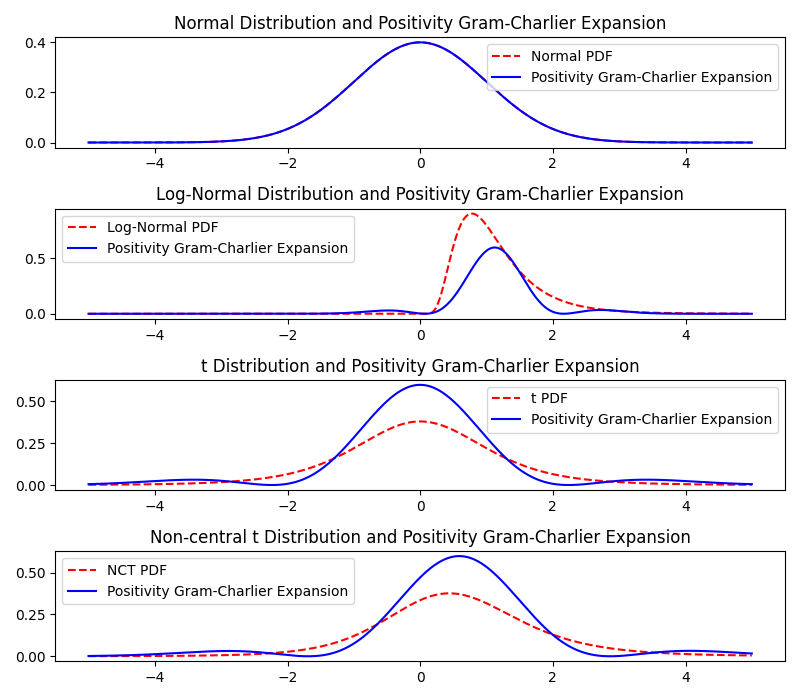
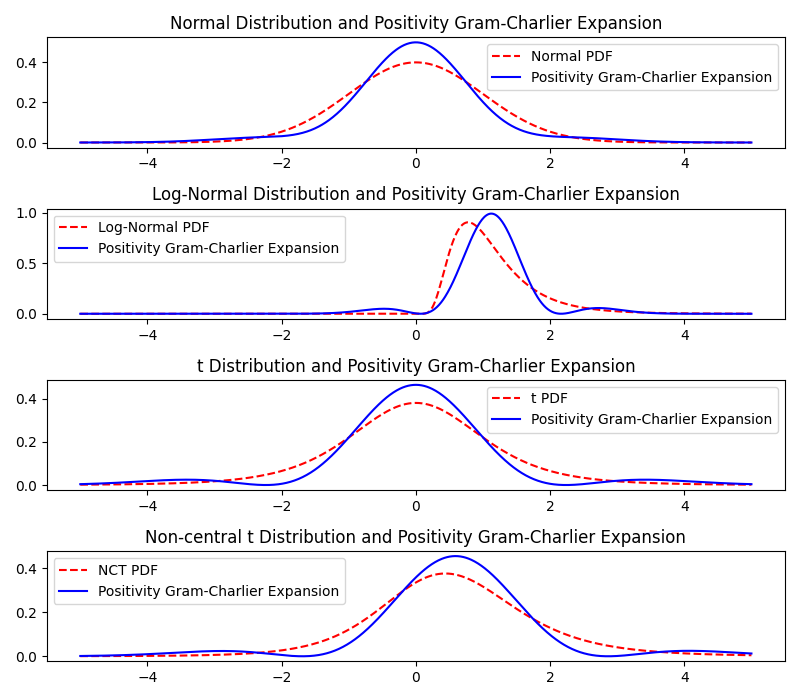
start compare distributions and gc expansion

diff --git a/latex/input/expansion_methods.tex b/latex/input/expansion_methods.tex
@@ -86,7 +86,22 @@ Das ist wohldefiniert, solange $z\neq\pm\sqrt{3}$. Die Idee von Jondeau & Rockin
 - Using a bisection algorithm and a logisitc map, they make the boundary piecewise linear and find for each unconstraint pair $(\tilde{\gamma_1}, \tilde{\gamma_2^*})\in\mathbb{R}^2$ a constraint pair in the positivity region $(\gamma_1, \gamma_2^*)\in \mathcal{D}$.
 - Finding a closed form expression for the boundary is difficult, even with 24 hours on a high performancce computer and Python's sympy library I was not able to find one.
 
-%TODO: Vergleich unconstraint & constraint
+\begin{table}[h]
+    \centering
+    \begin{tabular}{l|l|l|l|l|l|l|l|l}
+        Distribution & Parameters & $\mu$ & $\sigma^2$ & $\kappa_3$ & $\gamma_1$ & $\kappa_4$ & $\gamma_2^*$ \\
+        \hline
+        Standardnormal & $\mu=0$, $\sigma=1$ & 0 & 1 & 0 & 0 & 0 & 0 \\
+        Lognormal & $\mu=0$, $\sigma = 0.5$ & 1.1331 & 0.3647 & 0.3855 & 1.7502 & 0.7845 & 5.8984 \\
+        t-Distribution & \\
+        Non-Central t-Distribution \\
+        
+    \end{tabular}
+    \caption{Distribution parameters and theoretical moments and cumulants.}
+    \label{table:distributions_theoretical_moments}
+\end{table}
+
+- Vergleich von constraint und unconstraint Parametern und dem Einfluss auf die Gram-Charlier Expansion. Test von 4 Verteilungen: Standardnormal, lognormal, t-Verteilung und Non-Central-T-Verteilung. Die Parameter und daraus resultierenden theoretischen Momente und Cumulants sind in Tabelle \ref{table:distributions_theoretical_moments} angegeben.
 
 \subsection{Edgeworth Expansion}
 - beschrieben von Edgeworth 1907, er schlägt unter anderem vor, die Approximation bis zum 6. Term zu berechnen um das oben angesprochene Problem der asympotischen Expansion zu umgehen. Eine formelle Darstellung der ersten Terme findet sich z.B. in Brenn & Anfinsen (2017):
